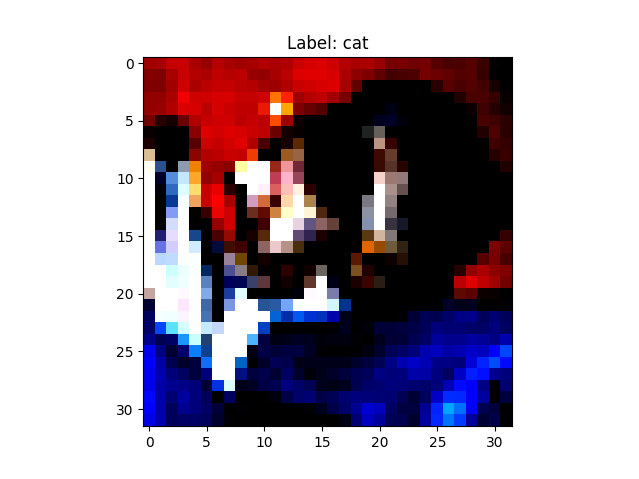
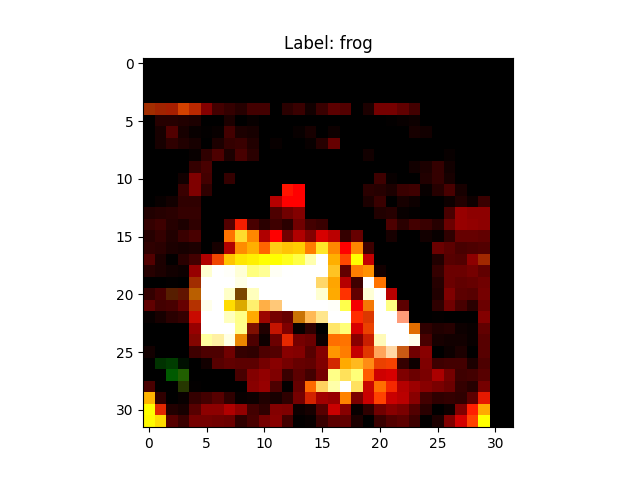
function of normalization check

diff --git a/main.py b/main.py
@@ -35,7 +35,7 @@ transform_train = transforms.Compose([
     transforms.RandomCrop(32, padding=4),
     transforms.RandomHorizontalFlip(),
     transforms.ToTensor(),
-    transforms.Normalize((0.4914, 0.4822, 0.4465), (0.2023, 0.1994, 0.2010)),
+    # transforms.Normalize((0.4914, 0.4822, 0.4465), (0.2023, 0.1994, 0.2010)),
 ])
 
 transform_test = transforms.Compose([
@@ -46,7 +46,7 @@ transform_test = transforms.Compose([
 trainset = torchvision.datasets.CIFAR10(
     root='./data', train=True, download=True, transform=transform_train)
 trainloader = torch.utils.data.DataLoader(
-    trainset, batch_size=128, shuffle=True, num_workers=2)
+    trainset, batch_size=128, shuffle=False, num_workers=2)
 
 testset = torchvision.datasets.CIFAR10(
     root='./data', train=False, download=True, transform=transform_test)
@@ -233,20 +233,20 @@ def print_feature_size():
     out = net.fc3(out)
     print(f"After fc3 size: {out.size()}")
 
-for epoch in range(start_epoch, start_epoch+args.num_epochs):
-    train(epoch)
-    test(epoch)
-    scheduler.step()
-    print(f"Learning rate: {scheduler.get_last_lr()[0]}")
+# for epoch in range(start_epoch, start_epoch+args.num_epochs):
+#     train(epoch)
+#     test(epoch)
+#     scheduler.step()
+#     print(f"Learning rate: {scheduler.get_last_lr()[0]}")
 
-plot_loss_acc()
+# plot_loss_acc()
 
 # visualize the first image of the input mini-batch in RGB space. and check the range of each rgb channel
-# images, labels = next(iter(testloader))
-# print(f"R: {images[0][0].min()} - {images[0][0].max()}")
-# print(f"G: {images[0][1].min()} - {images[0][1].max()}")
-# print(f"B: {images[0][2].min()} - {images[0][2].max()}")
-# npimg = images.numpy()
-# plt.imshow(npimg[0].transpose(1, 2, 0))
-# plt.title(f"Label: {classes[labels[0]]}")
-# plt.show()
+images, labels = next(iter(trainloader))
+print(f"R: {images[0][0].min()} - {images[0][0].max()}")
+print(f"G: {images[0][1].min()} - {images[0][1].max()}")
+print(f"B: {images[0][2].min()} - {images[0][2].max()}")
+npimg = images.numpy()
+plt.imshow(npimg[0].transpose(1, 2, 0))
+plt.title(f"Label: {classes[labels[0]]}")
+plt.show()
